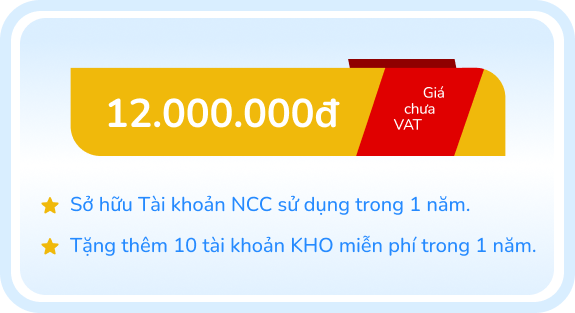
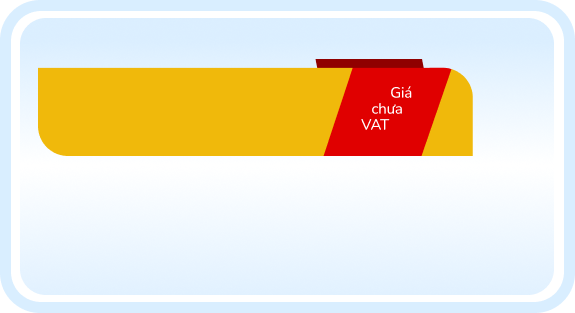
UP

diff --git a/resources/views/screens/manufacture/index.blade.php b/resources/views/screens/manufacture/index.blade.php
@@ -50,9 +50,34 @@
         <div class="flex flex-col justify-center w-full md:justify-start gap-8 md:max-w-[750px] text-center md:text-left">
             <h2 class="font-extrabold text-[#FFF] md:text-[64px] md:leading-[90px] text-2xl ">Trở thành Nhà cung cấp</h2>
             <span class="text-[#FFF] max-w-[450px]">Tham gia vào hệ thống Thương mại điện tử V-Store để mang sản phẩm của bạn đến tay người tiêu dùng.</span>
-            <div class="max-w-[575px]">
-                <img src="{{asset('home/img/bannerNc.png')}}" alt="" class="w-full object-contain">
-            </div>
+            <div class="max-w-[525px] relative">
+                        <img src="{{asset('home/img/bannerK.png')}}" alt="" class="w-full object-contain">
+                        <div class="absolute top-1/2 md:-translate-y-[40px] -translate-y-[30px] left-[100px] font-bold text-2xl md:text-4xl text-[#FFF]">
+                        12.000.000đ
+                        </div>
+                        <div class="absolute left-0 bottom-0 px-6 py-4">
+                            <div class="flex items-center gap-2">
+                                <div class="w-[25px]">
+                                    <div class="w-[24px] h-[24px]">
+                                        <svg viewBox="0 0 24 25" fill="none" xmlns="http://www.w3.org/2000/svg">
+                                            <path d="M12.0003 18.775L7.85033 21.275C7.667 21.3916 7.47533 21.4416 7.27533 21.4249C7.07533 21.4083 6.90033 21.3416 6.75033 21.225C6.60033 21.1083 6.48366 20.9623 6.40033 20.787C6.317 20.6116 6.30033 20.416 6.35033 20.2L7.45033 15.475L3.77533 12.3C3.60866 12.15 3.50466 11.979 3.46333 11.787C3.422 11.595 3.43433 11.4076 3.50033 11.225C3.567 11.0416 3.667 10.8916 3.80033 10.775C3.93366 10.6583 4.117 10.5833 4.35033 10.55L9.20033 10.125L11.0753 5.67495C11.1587 5.47495 11.288 5.32495 11.4633 5.22495C11.6387 5.12495 11.8177 5.07495 12.0003 5.07495C12.1837 5.07495 12.3627 5.12495 12.5373 5.22495C12.712 5.32495 12.8413 5.47495 12.9253 5.67495L14.8003 10.125L19.6503 10.55C19.8837 10.5833 20.067 10.6583 20.2003 10.775C20.3337 10.8916 20.4337 11.0416 20.5003 11.225C20.567 11.4083 20.5797 11.596 20.5383 11.788C20.497 11.98 20.3927 12.1506 20.2253 12.3L16.5503 15.475L17.6503 20.2C17.7003 20.4166 17.6837 20.6126 17.6003 20.788C17.517 20.9633 17.4003 21.109 17.2503 21.225C17.1003 21.3416 16.9253 21.4083 16.7253 21.4249C16.5253 21.4416 16.3337 21.3916 16.1503 21.275L12.0003 18.775Z" fill="#F0B90B"/>
+                                        </svg>
+                                    </div>
+                                </div>
+                                <span class="text-sm md:text-lg whitespace-nowrap font-bold text-[#258AFF]">Sở hữu Tài khoản NCC sử dụng trong 1 năm.</span>
+                            </div>
+                            <div class="flex items-center gap-2">
+                                <div class="w-[25px]">
+                                    <div class="w-[24px] h-[24px]">
+                                        <svg viewBox="0 0 24 25" fill="none" xmlns="http://www.w3.org/2000/svg">
+                                            <path d="M12.0003 18.775L7.85033 21.275C7.667 21.3916 7.47533 21.4416 7.27533 21.4249C7.07533 21.4083 6.90033 21.3416 6.75033 21.225C6.60033 21.1083 6.48366 20.9623 6.40033 20.787C6.317 20.6116 6.30033 20.416 6.35033 20.2L7.45033 15.475L3.77533 12.3C3.60866 12.15 3.50466 11.979 3.46333 11.787C3.422 11.595 3.43433 11.4076 3.50033 11.225C3.567 11.0416 3.667 10.8916 3.80033 10.775C3.93366 10.6583 4.117 10.5833 4.35033 10.55L9.20033 10.125L11.0753 5.67495C11.1587 5.47495 11.288 5.32495 11.4633 5.22495C11.6387 5.12495 11.8177 5.07495 12.0003 5.07495C12.1837 5.07495 12.3627 5.12495 12.5373 5.22495C12.712 5.32495 12.8413 5.47495 12.9253 5.67495L14.8003 10.125L19.6503 10.55C19.8837 10.5833 20.067 10.6583 20.2003 10.775C20.3337 10.8916 20.4337 11.0416 20.5003 11.225C20.567 11.4083 20.5797 11.596 20.5383 11.788C20.497 11.98 20.3927 12.1506 20.2253 12.3L16.5503 15.475L17.6503 20.2C17.7003 20.4166 17.6837 20.6126 17.6003 20.788C17.517 20.9633 17.4003 21.109 17.2503 21.225C17.1003 21.3416 16.9253 21.4083 16.7253 21.4249C16.5253 21.4416 16.3337 21.3916 16.1503 21.275L12.0003 18.775Z" fill="#F0B90B"/>
+                                        </svg>
+                                    </div>
+                                </div>
+                                <span class="text-sm md:text-lg whitespace-nowrap font-bold text-[#258AFF]">Tặng thêm 10 tài khoản KHO miễn phí trong 1 năm.</span>
+                            </div>
+                        </div>
+                    </div>
             <div class="flex justify-center md:justify-start items-center gap-6">
         <a href="{{route('register_ncc')}}" class="text-xs md:text-base rounded-[4px] text-[#00A8DB]  hover:opacity-70 transition-all duration-200 px-4 py-[6px] md:py-[10px]  font-semibold bg-[#fff] border-[#FFF] border-[1px] md:px-10">Đăng ký ngay</a>
 

diff --git a/resources/views/screens/storage/index.blade.php b/resources/views/screens/storage/index.blade.php
@@ -53,9 +53,34 @@
             <span class="text-grayRgb text-base md:text-lg font-medium max-w-[550px]">Hãy đồng hành cùng <strong
                     class="text-[#1E90FF]">20.000+</strong> người kinh doanh và thương hiệu bậc nhất tại Việt Nam đang tin dùng <strong
                     class="text-[#1E90FF]">KHO</strong></span>
-                    <div class="max-w-[525px]">
-                <img src="{{asset('home/img/bannerK.png')}}" alt="" class="w-full object-contain">
-            </div>
+                    <div class="max-w-[525px] relative">
+                        <img src="{{asset('home/img/bannerK.png')}}" alt="" class="w-full object-contain">
+                        <div class="absolute top-1/2 md:-translate-y-[40px] -translate-y-[30px] left-[100px] font-bold text-2xl md:text-4xl text-[#FFF]">
+                        1.200.000đ
+                        </div>
+                        <div class="absolute left-0 bottom-0 px-10 py-4">
+                            <div class="flex items-center gap-2">
+                                <div class="w-[25px]">
+                                    <div class="w-[24px] h-[24px]">
+                                        <svg viewBox="0 0 24 25" fill="none" xmlns="http://www.w3.org/2000/svg">
+                                            <path d="M12.0003 18.775L7.85033 21.275C7.667 21.3916 7.47533 21.4416 7.27533 21.4249C7.07533 21.4083 6.90033 21.3416 6.75033 21.225C6.60033 21.1083 6.48366 20.9623 6.40033 20.787C6.317 20.6116 6.30033 20.416 6.35033 20.2L7.45033 15.475L3.77533 12.3C3.60866 12.15 3.50466 11.979 3.46333 11.787C3.422 11.595 3.43433 11.4076 3.50033 11.225C3.567 11.0416 3.667 10.8916 3.80033 10.775C3.93366 10.6583 4.117 10.5833 4.35033 10.55L9.20033 10.125L11.0753 5.67495C11.1587 5.47495 11.288 5.32495 11.4633 5.22495C11.6387 5.12495 11.8177 5.07495 12.0003 5.07495C12.1837 5.07495 12.3627 5.12495 12.5373 5.22495C12.712 5.32495 12.8413 5.47495 12.9253 5.67495L14.8003 10.125L19.6503 10.55C19.8837 10.5833 20.067 10.6583 20.2003 10.775C20.3337 10.8916 20.4337 11.0416 20.5003 11.225C20.567 11.4083 20.5797 11.596 20.5383 11.788C20.497 11.98 20.3927 12.1506 20.2253 12.3L16.5503 15.475L17.6503 20.2C17.7003 20.4166 17.6837 20.6126 17.6003 20.788C17.517 20.9633 17.4003 21.109 17.2503 21.225C17.1003 21.3416 16.9253 21.4083 16.7253 21.4249C16.5253 21.4416 16.3337 21.3916 16.1503 21.275L12.0003 18.775Z" fill="#F0B90B"/>
+                                        </svg>
+                                    </div>
+                                </div>
+                                <span class="text-sm md:text-lg whitespace-nowrap font-bold text-[#258AFF]">Sở hữu Tài khoản KHO sử dụng trong 1 năm.</span>
+                            </div>
+                            <div class="flex items-center gap-2">
+                                <div class="w-[25px]">
+                                    <div class="w-[24px] h-[24px]">
+                                        <svg viewBox="0 0 24 25" fill="none" xmlns="http://www.w3.org/2000/svg">
+                                            <path d="M12.0003 18.775L7.85033 21.275C7.667 21.3916 7.47533 21.4416 7.27533 21.4249C7.07533 21.4083 6.90033 21.3416 6.75033 21.225C6.60033 21.1083 6.48366 20.9623 6.40033 20.787C6.317 20.6116 6.30033 20.416 6.35033 20.2L7.45033 15.475L3.77533 12.3C3.60866 12.15 3.50466 11.979 3.46333 11.787C3.422 11.595 3.43433 11.4076 3.50033 11.225C3.567 11.0416 3.667 10.8916 3.80033 10.775C3.93366 10.6583 4.117 10.5833 4.35033 10.55L9.20033 10.125L11.0753 5.67495C11.1587 5.47495 11.288 5.32495 11.4633 5.22495C11.6387 5.12495 11.8177 5.07495 12.0003 5.07495C12.1837 5.07495 12.3627 5.12495 12.5373 5.22495C12.712 5.32495 12.8413 5.47495 12.9253 5.67495L14.8003 10.125L19.6503 10.55C19.8837 10.5833 20.067 10.6583 20.2003 10.775C20.3337 10.8916 20.4337 11.0416 20.5003 11.225C20.567 11.4083 20.5797 11.596 20.5383 11.788C20.497 11.98 20.3927 12.1506 20.2253 12.3L16.5503 15.475L17.6503 20.2C17.7003 20.4166 17.6837 20.6126 17.6003 20.788C17.517 20.9633 17.4003 21.109 17.2503 21.225C17.1003 21.3416 16.9253 21.4083 16.7253 21.4249C16.5253 21.4416 16.3337 21.3916 16.1503 21.275L12.0003 18.775Z" fill="#F0B90B"/>
+                                        </svg>
+                                    </div>
+                                </div>
+                                <span class="text-sm md:text-lg whitespace-nowrap font-bold text-[#258AFF]">Sở hữu Tài khoản KHO sử dụng trong 1 năm.</span>
+                            </div>
+                        </div>
+                    </div>
                     <div class="max-w-[320px] w-full">
             <button
                 class="bg-[#1E90FF] text-center w-full rounded-[10px] text-[#FFF] py-4 font-semibold text-base md:text-2xl transition-all duration-200 hover:opacity-70 ">
